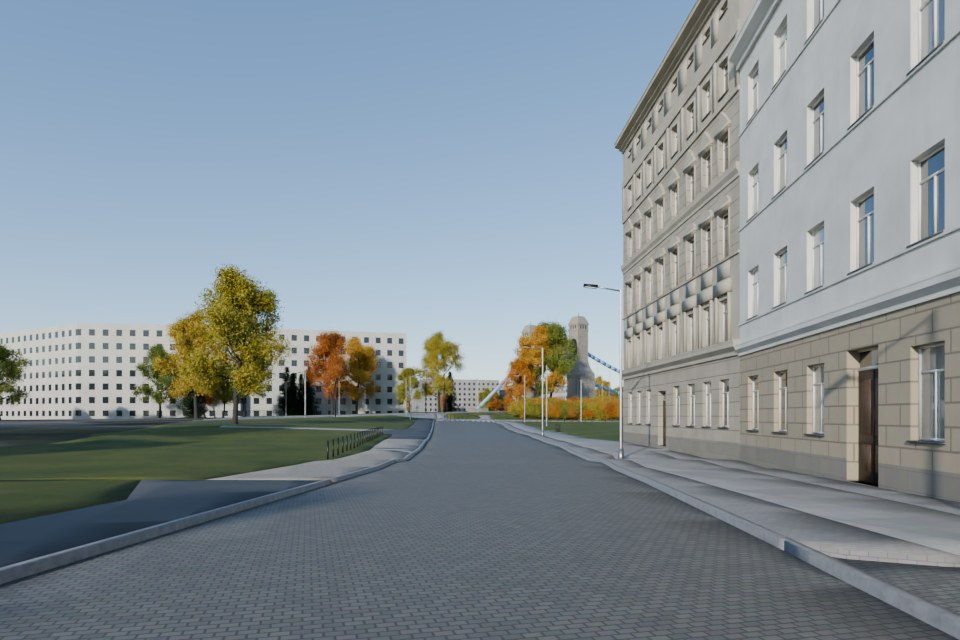
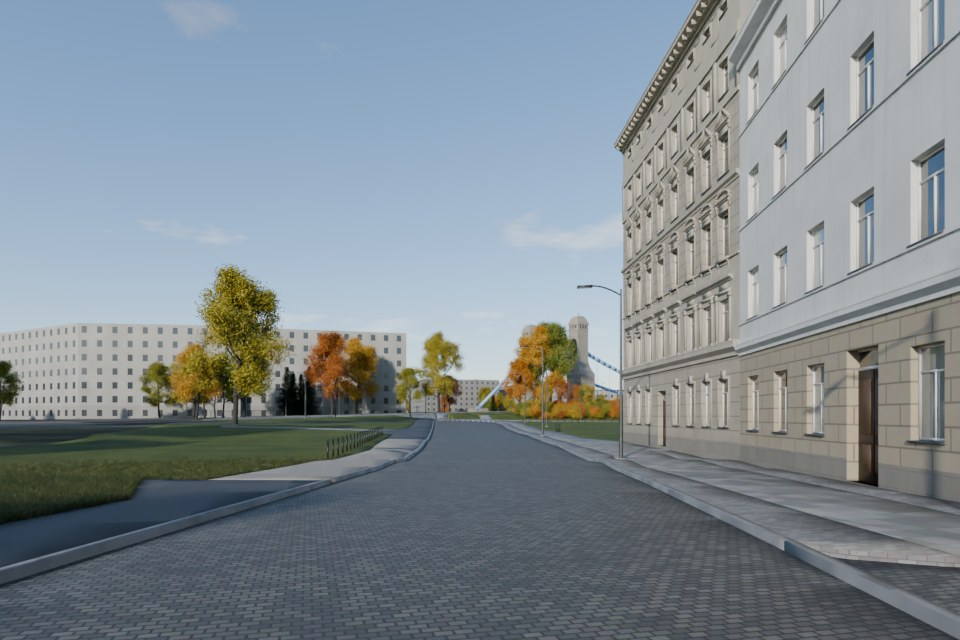
UMWD: raport nr 16 — werdykt panelu
Claude-Session: https://claude.ai/code/session_01ULAuXU15ZK9PB4XdqzfV5P

diff --git a/umwd/src/umwd/render/context.py b/umwd/src/umwd/render/context.py
@@ -733,14 +733,12 @@ class Materialy:
         att = nb.n('ShaderNodeAttribute', {'attribute_name': 'rnd', 'attribute_type': 'GEOMETRY'})
         cur = nb.math('GREATER_THAN', att.outputs['Fac'], 0.62)
         col = nb.mix(cur, (0.012, 0.014, 0.016), (0.30, 0.29, 0.26))
-        tint = nb.math('MULTIPLY', att.outputs['Fac'], 0.012)
         b = self._bsdf(nb, col, 0.03, spec=0.9)
         nb.set(b, 'IOR', 1.52)
         if 'Coat Weight' in b.inputs:
             nb.set(b, 'Coat Weight', 1.0)
             nb.set(b, 'Coat Roughness', 0.02)
         nb.output(b)
-        _ = tint
 
     def m_rama(self, m, hexcol='e8e6e0'):
         c = tuple((int(hexcol[i:i + 2], 16) / 255.0) ** 2.2 for i in (0, 2, 4))
@@ -852,7 +850,16 @@ class Materialy:
         wall = nb.mix(nb.math('MULTIPLY', parter, 0.35), wall, tuple(x * 0.35 for x in c))
         roof = (0.11, 0.11, 0.11)
         base = nb.mix(vert, roof, wall)
-        col = nb.mix(win, base, (0.05, 0.055, 0.06))
+        # losowość na okno (komórka siatki): część okien jaśniejsza (firanki, odbicia), część ciemna
+        cu = nb.math('FLOOR', nb.math('DIVIDE', sp.outputs[0], 3.6))
+        cv = nb.math('FLOOR', nb.math('DIVIDE', sp.outputs[1], 3.5))
+        cc3 = nb.n('ShaderNodeCombineXYZ')
+        nb.l(cu, cc3.inputs[0])
+        nb.l(cv, cc3.inputs[1])
+        wn = nb.n('ShaderNodeTexWhiteNoise', props={'noise_dimensions': '3D'})
+        nb.l(cc3.outputs[0], wn.inputs['Vector'])
+        wcol = nb.mix(wn.outputs['Value'], (0.03, 0.035, 0.04), (0.22, 0.23, 0.24))
+        col = nb.mix(win, base, wcol)
         rgh = nb.mix(win, 0.85, 0.12, dtype='FLOAT')
         nb.output(self.mgla_shader(nb, self._bsdf(nb, col, rgh, spec=0.6)))
 
@@ -2381,7 +2388,7 @@ def przygotuj_ortofoto(ctx):
         small[1:] = s2 < 900
         woda = woda | small[lab2]
     exg = 2 * G - R - B
-    std = ndimage.generic_filter(lum, np.std, size=5) if False else np.sqrt(np.maximum(
+    std = np.sqrt(np.maximum(
         ndimage.uniform_filter(lum ** 2, 5) - ndimage.uniform_filter(lum, 5) ** 2, 0))
     drz = (exg > 18) & (lum < 112) & (std > 9.0) & ~woda
     drz = ndimage.binary_opening(drz, iterations=1)
@@ -2400,7 +2407,7 @@ def zbuduj_dalsze(ctx):
     H, Wd = woda_m.shape
     # kontury wody (piksele → układ lokalny)
     sm = ndimage.gaussian_filter(woda_m.astype(np.float32), 1.2)
-    cg = contourpy.contour_generator(z=sm, line_type='SeparateCode' if False else 'Separate')
+    cg = contourpy.contour_generator(z=sm, line_type='Separate')
     polys = []
     for ln in cg.lines(0.5):
         if len(ln) < 8:
@@ -2698,7 +2705,7 @@ def ustaw_kamere_trawy(wynik, kamera):
     trawa.ustaw_kamere(getattr(ctx, 'trawa_obiekty', []), kamera)
 
 
-def export_preview(out_dir=None, opts=None, kamery=None, samples=28, data_godzina='2025-10-29 11:40', jpg_q=88,
+def export_preview(out_dir=None, opts=None, kamery=None, samples=28, data_godzina='2025-10-29 11:40', jpg_q=93,
                    prefix='context_test_', chmury=True):
     """Render testowy kontekstu z kamer KAMERY do ``docs/60_wizualizacje/img/context_test_<kamera>.jpg``
     (≤ 1 MB). Zwraca {kamera: (ścieżka, czas_s)} oraz info z budowy."""

diff --git a/umwd/docs/60_wizualizacje/kontekst_3d.md b/umwd/docs/60_wizualizacje/kontekst_3d.md
@@ -1,0 +1,256 @@
+# Kontekst 3D do wizualizacji – scena Blender (Cycles)
+
+**Stan:** 2026-11-17 · **Moduł:** `src/umwd/render/context.py` (+ `drzewa.py`, `trawa.py`, dodatki w `blib.py`) ·
+**Silnik:** Blender `bpy` 5.2 LTS, Cycles CPU + OIDN, AgX · **Podgląd:** `docs/60_wizualizacje/img/context_test_*.jpg`
+
+Moduł buduje **otoczenie** projektowanego budynku UMWD (róg Mazowieckiej i Wybrzeża J. Słowackiego, przy Moście
+Grunwaldzkim). Sam budynek dokłada inny moduł – wstawia się go jako osobną kolekcję w tym samym układzie
+współrzędnych. Domyślnie obszar inwestycji jest pusty (trawnik bez drzew i ogródków), żeby nowa bryła nie kolidowała
+z istniejącą zielenią.
+
+![Widok z lotu ptaka od pn.-wsch.](img/context_test_lot_ptaka_pnwsch.jpg)
+![Widok ze skweru na pd. ku działce](img/context_test_skwer_pd.jpg)
+![Widok z Mazowieckiej na pn. wzdłuż pierzei](img/context_test_mazowiecka_pn.jpg)
+
+## 1. API
+
+```python
+import sys; sys.path.insert(0, '/home/user/aihouse/umwd/src')
+from umwd.render import blib, context
+
+sc = blib.reset()
+wynik = context.build_context(sc, {'pora_roku': 'jesien'})   # → {'kolekcje': {...}, 'info': {...}, 'ctx': Kontekst}
+# … dołożenie budynku projektowanego, własne kamery …
+cam = blib.camera(sc, (80.5, 74.5, 1.65 + 0.15), (82, 10, 8), lens_mm=22, level=True, shift_y=0.13)
+context.ustaw_kamere_trawy(wynik, cam)       # trawa 3D gęstnieje wokół tej kamery (wymagane dla własnych kamer)
+```
+
+Uruchamianie (venv z bpy; `-I` – moduł sam dopisuje `src` do `sys.path`):
+
+```
+/home/user/aihouse/.venv-render/bin/python -I umwd/src/umwd/render/context.py --podglad [--probki 28]
+      [--kamery skwer_pd ...] [--pora lato] [--obszar istniejacy] [--bez-dalszych] [--blend plik.blend] [--out katalog]
+```
+
+| Funkcja | Opis |
+|---|---|
+| `build_context(scene, opts=None)` | buduje kolekcję `KONTEKST` z podkolekcjami (niżej); zwraca słownik `kolekcje`, `info` (czasy etapów, pola nawierzchni, liczby obiektów, rzędne), `ctx` (obiekt `Kontekst`: m.in. `ctx.teren.z(e, n)` – rzędna terenu Z w dowolnym punkcie) |
+| `export_preview(out_dir=None, opts=None, kamery=None, samples=28, prefix='context_test_', chmury=True)` | buduje scenę i renderuje kamery z `KAMERY` do JPG ≤ 1 MB; Słońce wg algorytmu NOAA (`umwd.sun`) dla daty z kamery, azymut przeliczony na siatkę (+0,738°) |
+| `ustaw_kamere(ctx, scene, nazwa)` | ustawia jedną z kamer `KAMERY` (i strefę trawy 3D) |
+| `ustaw_kamere_trawy(wynik, kamera)` | przenosi strefę gęstej trawy 3D do dowolnej kamery |
+| `dodaj_chmury(scene, pokrycie=0.42)` | proceduralne cumulusy na niebie fizycznym (spójne z ekspozycją) |
+| `klasyfikacja_nawierzchni(ctx)` | pola nawierzchni jako geometrie shapely `{klasa: (Multi)Polygon}` – do ponownego użycia (np. w rysunkach) |
+
+Opcje `opts` (domyślne w `DOMYSLNE`):
+
+| Klucz | Domyślnie | Znaczenie |
+|---|---|---|
+| `pora_roku` | `'jesien'` | `'jesien'` (barwy liści i trawy jak na zdjęciach z 29.10.2025, opadłe liście na nawierzchniach) lub `'lato'` |
+| `obszar_inwestycji` | `'pusty'` | `'pusty'` – w obszarze inwestycji trawnik bez drzew, ogrodzeń i ścieżek; `'istniejacy'` – stan z mapy |
+| `helmy` | `True` | pylony mostu z odtworzonymi hełmami (M.11.F); `False` – stan obecny (obniżone pylony) |
+| `okna_szczytu_maz19` | `True` | okna w pn. ścianie szczytowej Mazowieckiej 19 (wg M.07 do zamurowania w inwestycji towarzyszącej) |
+| `H_woda` | `115.5` | zwierciadło Odry/Oławy [m n.p.m.] |
+| `teren, woda, sasiedzi, budynki, most, zielen, ulica, dalsze` | `True` | włączanie składników |
+| `ortofoto, dalsze_bryly, dalsze_drzewa` | `True` | składniki dalszego otoczenia |
+| `trawa_3d`, `trawa_gestosc`, `trawa_r0`, `trawa_r1` | `True`, 420, 9, 32 | trawa 3D: kępek/m², strefa pełnej gęstości i zanik [m od kamery] |
+| `gestosc_lisci`, `seed` | 1.0, 7 | gęstość liści w koronach, ziarno losowania |
+
+Kolekcje: `K_teren`, `K_woda`, `K_sasiedzi`, `K_budynki`, `K_most`, `K_zielen`, `K_ulica`, `K_dalsze`.
+Prototypy drzew i kępek trawy są niepodpiętymi kolekcjami/obiektami (instancjonowane).
+
+## 2. Układ współrzędnych i poziomy
+
+* X = e (wschód), Y = n (północ) – układ lokalny `model/site.json`: e = Y₂₀₀₀ − 6 433 500, n = X₂₀₀₀ − 5 664 100 [m].
+  Oś n jest obrócona względem północy geograficznej o zbieżność południków γ = −0,738° (`geometria.md` § 2.2) –
+  azymut Słońca w scenie = azymut geograficzny + 0,738°.
+* **Z = H − 119,25** (H w PL-EVRF2007-NH). Chodnik przed Mazowiecką 19 (118,51) ma Z = −0,74.
+* **Zwierciadło wody 115,50 m n.p.m. (Z = −3,75) – założenie.** W danych brak stanu Odry; podstawy: zwierciadło wód
+  gruntowych w otworach M.05 (09.2025) 115,07–115,95 m n.p.m. (hydraulicznie związane z rzeką), punkt wysokościowy
+  e-mapy przy podnóżu nabrzeża 115,7 (e 109,1; n 109,6), korona nabrzeża ok. 119,3. Wartość do zmiany opcją `H_woda`.
+
+## 3. Teren i nawierzchnie (`K_teren`)
+
+* **NMT:** TIN (interpolacja liniowa) z 791 pikiet terenowych M.02 (bez 9 pikiet wykluczonych w `geometria.md` § 6)
+  + punkty wysokościowe e-mapy (bez punktów < 117,5 m – podnóże nabrzeża). Poza zasięgiem TIN: IDW z 6 najbliższych
+  punktów, wygaszane do 119,3 m w skali ok. 45 m. Dokładność w ramce ≈ ±0,05–0,1 m (wymagane 0,1 m).
+* **Podział nawierzchni:** poligonizacja wszystkich krawędzi e-mapy (BDOT500: krawężniki, krawędzie jezdni
+  i chodników, trawniki, schody, mury; pomiar NMT: krawężniki, jezdnie, chodniki, obszary utwardzone) z automatycznym
+  domknięciem wiszących końców linii (przedłużenie do najbliższego przecięcia ≤ 4 m, przy ramce ≤ 12 m). Pola
+  sklasyfikowano wg opisów nawierzchni e-mapy (`j.kb.` → kostka granitowa, `j.mb.` → asfalt, `ch.bt.` → płyty
+  betonowe 50×50, `ch.kb.` → kostka betonowa, `ch.mb.` → asfalt, `ch.zw.` → żwir), obrysów trawników, schodów
+  i placu zabaw; pola bez opisu: wąskie pasy → chodnik, pozostałe → teren trawiasty; kilka korekt ręcznych
+  (`_KOREKTY`, weryfikacja na ortofotomapie M.11.A 03). Pola nawierzchni [m²] zapisuje `info['nawierzchnie_m2']`.
+  Uwaga: jezdnie Mazowieckiej i Wybrzeża Słowackiego to wg e-mapy **kostka** (`j.kb.`), co potwierdzają zdjęcia.
+* Każda klasa to siatka drapowana na NMT (triangulacja z ograniczeniami, komórki 1,5 m) z przesunięciem: jezdnia
+  −0,05 m, chodniki +0,06 m, trawniki +0,03 m, schody +0,10 m, oraz „fartuchem” 0,25 m w dół (bez szczelin).
+* **Krawężniki granitowe:** bufor 0,15 m wzdłuż linii krawężników (BDOT500 + pomiar), wyciągnięty do Z terenu
+  + 0,085 m ⇒ **odkrycie 13,5 cm nad jezdnią**, 2,5 cm nad chodnikiem.
+* **Trawa 3D** (`trawa.py`): modyfikator Geometry Nodes na siatkach trawników – kępki po 12–14 zakrzywionych źdźbeł
+  (trawnik strzyżony 6–12 cm, teren otwarty 10–28 cm), gęstość 420 kępek/m² do 9 m od kamery, liniowo do zera
+  w 32 m; dalej tekstura proceduralna (3 skale zmienności barwy, prześwity ziemi, jesienią opadłe liście).
+* Mur ceglany między podwórzem Mazowieckiej 19 a działką (GSSDSO, wys. ok. 2 m wg pikiet koron muru).
+
+## 4. Woda i nabrzeże (`K_woda`)
+
+* Płaszczyzna wody (2,3 × 1,8 km) na Z = −3,75: materiał z dwuskalowym szumem fal (wydłużonych wzdłuż nurtu),
+  niska szorstkość (odbicia nieba, mostu i nabrzeży), barwa mętnej Odry ze zdjęć; perspektywa powietrzna z odległością.
+* Linia brzegu: GSSWWP (nabrzeże Odry, potem Oławy) + linia wody u podnóża skarpy nad Oławą (GSSZSN, odsunięta o ok.
+  3 m – założenie). Mur nabrzeża z kamienia łamanego (od dna do korony = teren), z pasem zawilgocenia przy wodzie;
+  parapet kamienny 0,62 m (obrys GSSDSO) z balustradą stalową (słupki co 2 m, pochwyt, przeciąg). Skarpa nad Oławą
+  jako siatka pochyła od górnej krawędzi do wody.
+* Dwie barki przy nabrzeżu (restauracja ok. e 131, n 81; pawilon z PV ok. e 145, n 27) – uproszczone, położenie
+  z ortofotomapy M.11.A.
+
+## 5. Budynki sąsiednie
+
+### 5.1 Mazowiecka 19 – LOD3 (`kamienica_maz19`)
+
+Źródło: inwentaryzacja M.07 (03.2021), rysunki odczytane z renderu PDF 200 dpi (pomiar pikselowy, skala wg długości
+elewacji z obrysu EGiB 18,54 m):
+
+* **elewacja frontowa (s. 12):** 8 osi okien pięter (osie u = 1,71; 3,74; 5,92; 8,05; 10,26; 12,51; 14,47; 16,31 m
+  od narożnika pn., skalowane do obrysu), parter: 7 okien + drzwi wejściowe 1,42 × 3,12 m w osi 8,15 m; okna
+  [m nad chodnikiem]: parter 1,48–3,57 (szer. 1,02), I p. 5,20–7,05 (1,06), II p. 8,80–10,85 (1,08),
+  III p. 12,47–14,22 (1,04), IV p. 15,94–17,43 (0,94), okienka fryzu attykowego 19,50–19,92 (0,76);
+* **dekoracja** (wg rysunku s. 12, `docs/30_lokalizacja/img/mazowiecka19_elewacja_fragment.jpg`): parter boniowany
+  pasowo z opaskami i zwornikami, gzyms nad parterem (wysięg 0,28 m), I p. – okna między pilastrami z bazą
+  i kapitelem, architraw, płycina fryzu, gzyms nadokienny, tralki pod oknami; II p. – opaski, parapety na konsolkach,
+  **naczółki odcinkowe** (gzyms na konsolkach, listwa łukowa, tympanon); III p. – **naczółki trójkątne**; boniowanie
+  pasowe II–III p.; IV p. – opaski i lizeny; belkowanie, fryz attykowy z płycinami i okienkami, **gzyms koronujący
+  na konsolkach** (co 0,62 m), murek attykowy z obróbką blacharską;
+* **rzędne:** ±0,00 parteru = chodnik + 0,73 (przekrój A-A s. 10); chodnik 118,51 (pikiety); **korona attyki
+  140,25 m n.p.m.** (site.json; odczyt graficzny ±0,3 m); dach płaski (papa) za murkiem, 5 kominów murowanych;
+* **ściana szczytowa pn. (s. 13):** okna 0,55 × 0,64 m w 3 pionach (4 + 2 + 4) + okienka klatki schodowej –
+  wg M.07 przeznaczone do zamurowania (opcja `okna_szczytu_maz19`); pozostałość muru dawnej zabudowy do 5,3 m;
+  tynk z łatami napraw;
+* **elewacja tylna (s. 14):** 4 piony okien + pion klatki schodowej z drzwiami na podwórze;
+* barwa tynku szarobeżowa, zabrudzona (zdjęcie F.17.B): `#b1a998`; cokół kamienny.
+
+### 5.2 Wybrzeże J. Słowackiego 5 – LOD3 (`kamienica_ws5`)
+
+Źródło: M.08 (2001) – rzuty 1:100 (skany; parter, I p.), strona tytułowa; zdjęcie F.17.A (wycinek z pliku
+organizatora w pełnej rozdzielczości):
+
+* front (wsch.) – **7 osi** (rozstaw ok. 2,4 m), wejście w osi pn. (zdjęcie), parter boniowany (`#aaa595`), piętra
+  jasnoszare (`#cfcfc9`), pilastry między osiami, opaski, nadokienniki: I p. gzyms prosty, II p. naczółki odcinkowe,
+  III p. trójkątne (zdjęcie), gzyms koronujący, dach dwuspadowy/kopertowy kryty blachą (zdjęcie);
+* wysokości kondygnacji z rzutów: parter H 3,75 m, I p. H 3,85 m (wysokości w świetle); piętra wyższe przyjęte
+  3,5 m; gzyms ok. 19,3 m nad chodnikiem – **szacunek** (brak przekroju w M.08);
+* tył (zach.) – 6 osi okien + okna klatki schodowej w połowie kondygnacji (rzut I p.);
+* **ściana szczytowa pn.:** okno lokalu na I p. 0,90 × 1,14 m (M.08: nie do zamurowania – należy je uwzględnić),
+  położenie w osi pokoju wg rzutu (±0,3 m); tynk z łatami.
+
+### 5.3 Pozostałe budynki w ramce mapy – LOD2+ (`budynek_lod2`)
+
+Bryła z obrysu EGiB (uproszczenie 0,35 m), siatka okien wciętych z ramą i szybą (ściany frontowe ulic – rozstaw
+2,75 m, pozostałe 3,0 m), gzyms pod dachem, gzymsy międzykondygnacyjne na frontach, brama/wejście, ściany wspólne
+i przecięte ramką – bez okien. Parametry (`_LOD2`): Wybrzeże Słowackiego 6, 7, 8 – 5 kond., gzyms 19,6 m, dach
+kopertowy blaszany; nr 9 (b4) – 4 kond., gzyms 15,0 m, dach płaski; **Mazowiecka 17** (szkoła, k5) – gzyms 16,8 m,
+wysoki dach z dachówki z lukarnami, boniowany cokół z piaskowca do 4,6 m (zdjęcie F.17.B); budynki i1/t1 –
+parterowe. Wysokości – szacunek z liczby kondygnacji i zdjęć (do weryfikacji).
+
+### 5.4 Dalsze otoczenie (`K_dalsze`)
+
+* **Ortofotomapa M.11.A (01 B, 2405 × 1679 px) jako teren** w promieniu ok. 1 km: georeferencja automatyczna –
+  dopasowanie (skala, obrót, przesunięcie) linii działek GESDZI z `site.json` do niebieskich linii ewidencyjnych
+  na obrazie (minimalizacja odległości w transformacie odległości): **0,847 m/px, obrót −0,78°, mediana odchyłki
+  0,0 px, p90 0,1 px**. Linie ewidencyjne usunięte z tekstury (wypełnienie sąsiednimi pikselami); jesienią korekta
+  barwy. Wynik w `build/kontekst_cache/` (generowany przy pierwszym uruchomieniu).
+* Maska wody (ciemne, mało nasycone duże obszary) → linia brzegu Odry i Oławy poza ramką, z murem/skarpą do wody.
+* Maska koron drzew (indeks zieleni + tekstura) → ok. 700 instancji drzew poza ramką (co ok. 7,5 m, r ≤ 430 m).
+* 31 prostych brył (`BRYLY_DALSZE`): obrysy digitalizowane z georeferencjonowanej ortofotomapy (±2–3 m),
+  wysokości z liczby kondygnacji na zdjęciach F.17/M.09/M.10 i modelu SIP M.11.C – m.in. **gmach DUW** (pierzeja
+  łukowa nad Odrą, 24 m), Muzeum Narodowe, kwartał na pd. od działki (Mazowiecka 17 cd., Wybrzeże Słowackiego 10–14),
+  zabudowa pn. i wsch. brzegu (pl. Grunwaldzki, Wybrzeże Wyspiańskiego). Materiał: tynk + proceduralna siatka okien
+  z ciemniejszym parterem; perspektywa powietrzna.
+* Poza ortofotomapą – płaski teren do horyzontu z mgłą.
+
+## 6. Most Grunwaldzki (`K_most`)
+
+* **Położenie:** oś mostu – azymut siatki 70,4° (kierunek osi torów tramwajowych GSLTTK, `site.json`); środek
+  między wewnętrznymi licami pylonów portalu pd. w (93,90; 136,58) – środek symetrii bloków kotwiących GSSIPD
+  e-mapy; rozstaw osi pylonów 126,6 m (literatura, `historia.md`). Kontrola: ortofotomapa M.11.A 03 (pylony i cień
+  portalu), zdjęcia M.09 (360°), F.17.A.
+* **Pylony wg przekroju D-D M.11.F** (skala z szerokości 16,50 m między licami pylonów = 2,20 + 12,10 + 2,20 m;
+  ok. 28,3 px/m), wysokości nad chodnikiem mostu (Z = 2,50 ≈ 121,75 m n.p.m., pkt e-mapy 121,66–121,77):
+  cokół 5,72 × 5,2 m do 3,6 m; trzon 5,5 m do 9,8 m; wklęsłe przejście do 3,57 m szer. na 14,2 m; wieża do 21,3 m;
+  gzyms, latarnia z prześwitami 21,6–22,9 m, gzyms 23,5 m; **hełm** – ostrosłup ścięty w 3 uskokach do 25,2 m,
+  daszek do 25,55 m, iglica do ok. 26,2 m (zgodne z pierwotną wysokością 25,54 m). Nisza z siodłem łańcucha
+  (łuk, 14,9–19,3 m), płycina płaskorzeźby (orzeł) 4,2–8,6 m, latarnie na wysięgnikach (8,9 m).
+* **Portal:** łuk odcinkowy (wezgłowia 8,9 m, klucz 15,9 m), archiwolta, belka do 19,5 m z gzymsem, tablica
+  z napisem (16,0–17,5 m), naczółek do 21,3 m z cokołem rzeźby; okładzina granitowa w kwadrach 1,05 × 0,52 m
+  (barwa beżowoszara ze zdjęć).
+* **Pomost** (uproszczenie): jezdnia z torowiskiem 12,10 m (asfalt + 4 szyny), chodniki 2 × 2,20 m, wsporniki,
+  dźwigary blachownicowe; kratownice usztywniające (pas górny +2,3 m, krzyżulce co 4,85 m); **łańcuchy** (siodło
+  19,6 m, parabola do 0,55 m nad pasem górnym w połowie przęsła), wieszaki, odciągi do bloków kotwiących
+  (19 m za osią pylonu); kolor jasnoniebieski (zdjęcia). Portal pn. – kopia portalu pd. obrócona o 180°.
+
+## 7. Zieleń (`K_zielen`, `drzewa.py`)
+
+* **Drzewa istniejące:** 52 numerowane drzewa z pomiaru M.02 (numery z dwoma punktami – jedno drzewo w środku)
+  + 21 drzew z e-mapy (E01–E21). W trybie `obszar_inwestycji='pusty'` pomija się 46 drzew w obszarze inwestycji.
+  Typ: iglaste → świerk (ok. 14 m); liściaste → duże (19 m) / średnie (13 m) deterministycznie wg numeru (crc32),
+  E07, E12 → topole włoskie (24 m, jak przy Wybrzeżu na zdjęciach). Gatunki i wymiary koron z operatu M.06
+  **nie zostały sparowane** (inna numeracja) – wysokości typowe.
+* **Generator drzew:** pień z odziomkiem, konary rozmieszczone spiralnie (kąt złoty) i ograniczone obwiednią korony
+  (owal / kolumna / jajo / stożek / półkula), 2 rzędy odgałęzień, liście – 9–52 tys. czworokątów na drzewo
+  w skupieniach przy końcach gałązek; materiał liści z translucencją, losowość barwy na liść i na drzewo;
+  jesień – zielonożółte → żółte → pomarańczowe → rdzawe; lato – odcienie zieleni.
+* **Szpaler** młodych drzew (7 m) wzdłuż bulwaru Wybrzeża Słowackiego od strony rzeki, co 8 m (założenie wg zdjęć
+  F.17.A i ortofotomapy).
+* **Krzewy** w obrysach zakrzewień z pomiaru (co ok. 2,2 m, 22% luk, pojedyncze młode drzewa).
+
+## 8. Ulica (`K_ulica`)
+
+* **Latarnie** w punktach GUPELA (e-mapa) i z pomiaru NMT (bez duplikatów, bez punktów w jezdni i przy pylonach):
+  słup stalowy stożkowy 8 m na fundamencie, cokół z drzwiczkami, wysięgnik łukowy 1,5 m ku jezdni, płaska oprawa;
+  typ oprawy – założenie (typowy wrocławski).
+* **Słupki** stalowe co 1,4 m wzdłuż linii słupków z pomiaru; **ogrodzenia** (siatka na słupkach 1,5 m) wg pomiaru.
+* **Tory tramwajowe:** szyny (rozstaw 1435 mm) wzdłuż osi GSLTTK, przewód jezdny 5,6 m, słupy trakcyjne
+  z wysięgnikami co ok. 32 m (rozmieszczenie słupów – założenie).
+* **Oznakowanie poziome:** przejście dla pieszych przez Mazowiecką przy skwerze (położenie ze zdjęcia M.09 360°).
+
+## 9. Kamery testowe i czasy renderu
+
+| Kamera | Położenie (e, n, h) | Cel | Ogniskowa | Godzina (29.10) | Czas renderu* |
+|---|---|---|---|---|---|
+| `lot_ptaka_pnwsch` | (185, 245, Z 135) | (82, 35, 0) | 26 mm | 11:40 (jak F.17.A) | CZAS_PTAK |
+| `skwer_pd` | (80,5; 74,5; 1,65 m nad terenem) | ku pd. (82, 10) | 22 mm, poziomowana | 14:00 | CZAS_SKWER |
+| `mazowiecka_pn` | (27,5; −31; 1,65 m) | ku pn. wzdłuż pierzei | 24 mm, poziomowana | 14:00 | CZAS_MAZ |
+
+\* CPU 4 rdzenie, 1000 × 625 / 960 × 640 px, 28 próbek (adaptacyjnie), OIDN; budowa sceny CZAS_BUDOWA s
+(pierwsze uruchomienie dodatkowo ok. 15 s – przygotowanie ortofotomapy do cache). Pliki JPG ≤ 1 MB.
+Kamery „poziomowane” zachowują piony (perspektywa dwupunktowa, kadrowanie przesunięciem obiektywu).
+
+## 10. Ograniczenia i braki
+
+1. **Brak samochodów, ludzi, tramwajów, znaków pionowych, koszy, wiat** – do dodania w postprodukcji lub osobnym
+   modułem (na zdjęciach Wybrzeże Słowackiego i Mazowiecka są gęsto zaparkowane).
+2. **Murale/reklamy** na ścianach szczytowych Mazowieckiej 19 i Wybrzeża Słowackiego 5 (widoczne na zdjęciach
+   360° M.09) nie są modelowane – są zmienne; ściany szczytowe mają tynk z łatami.
+3. Wybrzeże Słowackiego 5: wysokości pięter powyżej I p. i gzymsu – szacunek (M.08 nie zawiera elewacji ani
+   przekroju); detal nadokienny wg zdjęcia lotniczego (rozdzielczość ok. 2–3 cm/px). Mazowiecka 19: brak balkonów,
+   rynien, anten, krat; okna bez podziału na skrzydła szczegółowego.
+4. Pozostałe budynki w ramce – LOD2+ z wysokościami szacunkowymi; dalsze otoczenie – bryły proste
+   (±2–3 m w planie, wysokości szacunkowe), bez dachów spadzistych.
+5. Most: brak ornamentów (płaskorzeźby orła, napisu, rzeźb na naczółku, balustrad z detalem), latarń mostowych,
+   konstrukcji pomostu w szczegółach; pomost bez niwelety projektowej (łuk 1 m – założenie).
+6. Zwierciadło wody 115,5 m n.p.m. – założenie (rozdz. 2); linia wody przy skarpie Oławy – przybliżenie.
+7. Drzewa – typowe sylwetki, bez gatunków i wymiarów z operatu M.06; ortofotomapa ma barwy letnie (korekta barwy
+   jesienią jest przybliżona).
+8. Trawa 3D zależy od kamery – dla własnych kamer trzeba wywołać `ustaw_kamere_trawy()`; w widokach z lotu ptaka
+   jest wyłączana automatycznie (odległość > 32 m).
+9. Materiały proceduralne (bez tekstur zdjęciowych); tynk ze zabrudzeniami, ale bez lokalnych zacieków pod
+   detalami. Cień nabrzeża na wodzie (ostra krawędź przy Słońcu z pd.) jest fizycznie poprawny.
+10. Położenie słupów trakcyjnych, latarń (typ), szpaleru i barek – przybliżone/założone.
+
+## 11. Pliki
+
+| Plik | Zawartość |
+|---|---|
+| `src/umwd/render/context.py` | budowa kontekstu, materiały, kamery, eksport podglądu, CLI |
+| `src/umwd/render/drzewa.py` | generator drzew (prototypy do instancjonowania), materiały kory i liści |
+| `src/umwd/render/trawa.py` | kępki trawy i drzewo Geometry Nodes (gęstość zależna od kamery) |
+| `src/umwd/render/blib.py` | dodane: `mesh_from_arrays` (szybkie siatki z tablic, atrybuty), `NodeBuilder` (budowa węzłów) – istniejące funkcje bez zmian |
+| `build/kontekst_cache/` | ortofotomapa bez linii ewidencyjnych, maski wody i drzew (generowane) |
+| `docs/60_wizualizacje/img/context_test_*.jpg` | rendery testowe |
